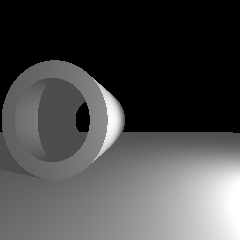
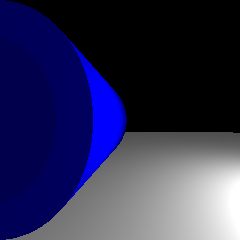
added specular lighting

diff --git a/Scene.cpp b/Scene.cpp
@@ -77,9 +77,20 @@ Colour Scene::computeColour(const Ray& ray, unsigned int rayDepth) const {
 				if (nl_dot > 0) {
 					hitColour += light->getIlluminationAt(hitPoint.point) * hitPoint.material.diffuseColour * nl_dot;
 				}
+				//Calculate Specular Lighting.
+				Direction v, r;
+				r = 2 * nl_dot * unit_n - unit_l;
+				v = -ray.direction;
+				if (nl_dot > 0) {
+					hitColour += light->getIlluminationAt(hitPoint.point) * hitPoint.material.specularColour * pow(r.dot(v), hitPoint.material.specularExponent);
+				}
+				//hitPoint.material.specularExponent;
+				// Is * ks * (r . v)^alpha
+				// Is = light->getIlluminationAt(hitPoint.point)
+				// r = 2(nl_dot)n - l
 				
-			}
-			
+				
+			}			
 		}
 	}
 
